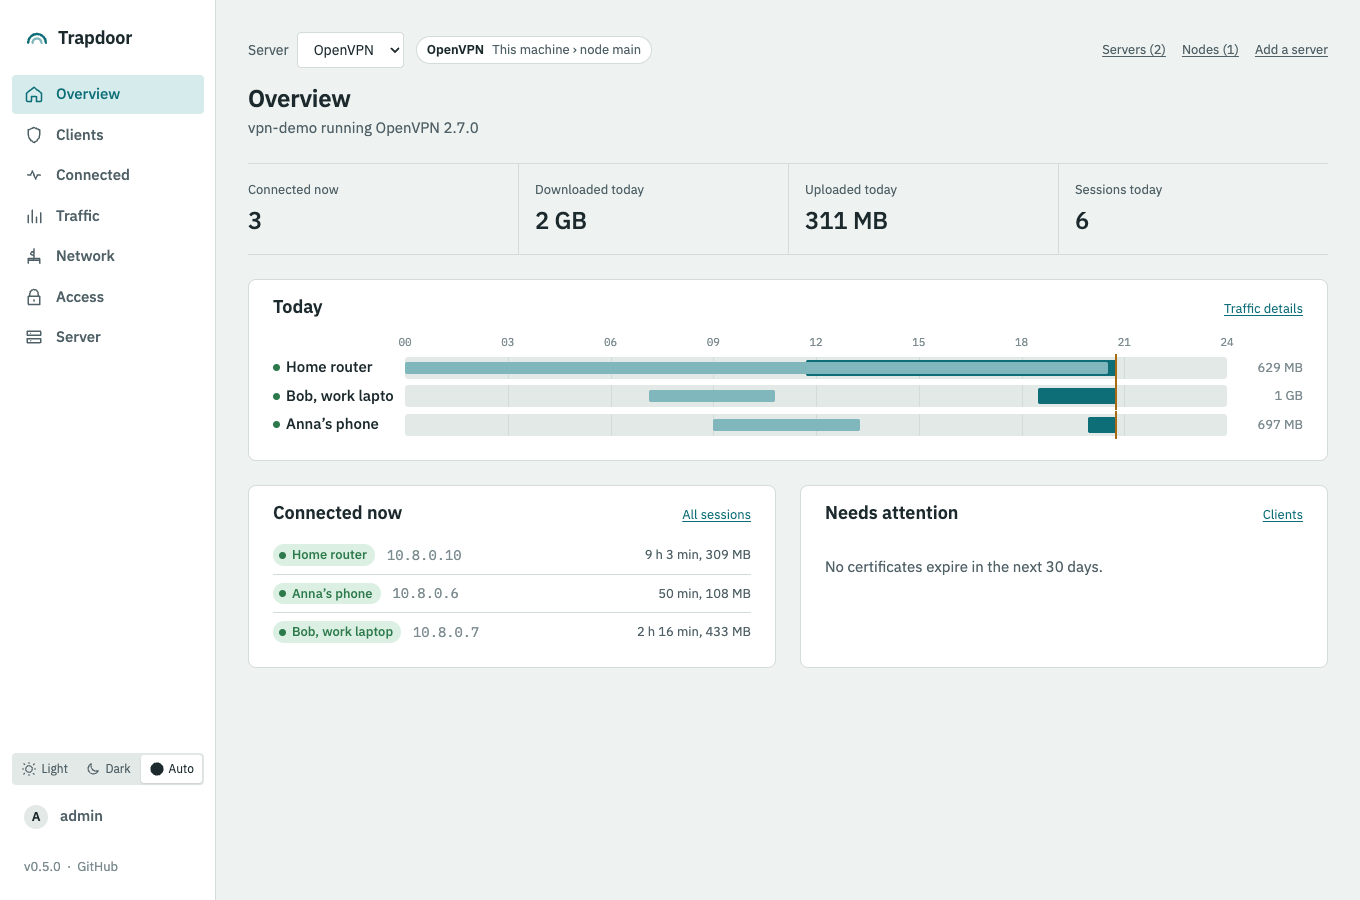
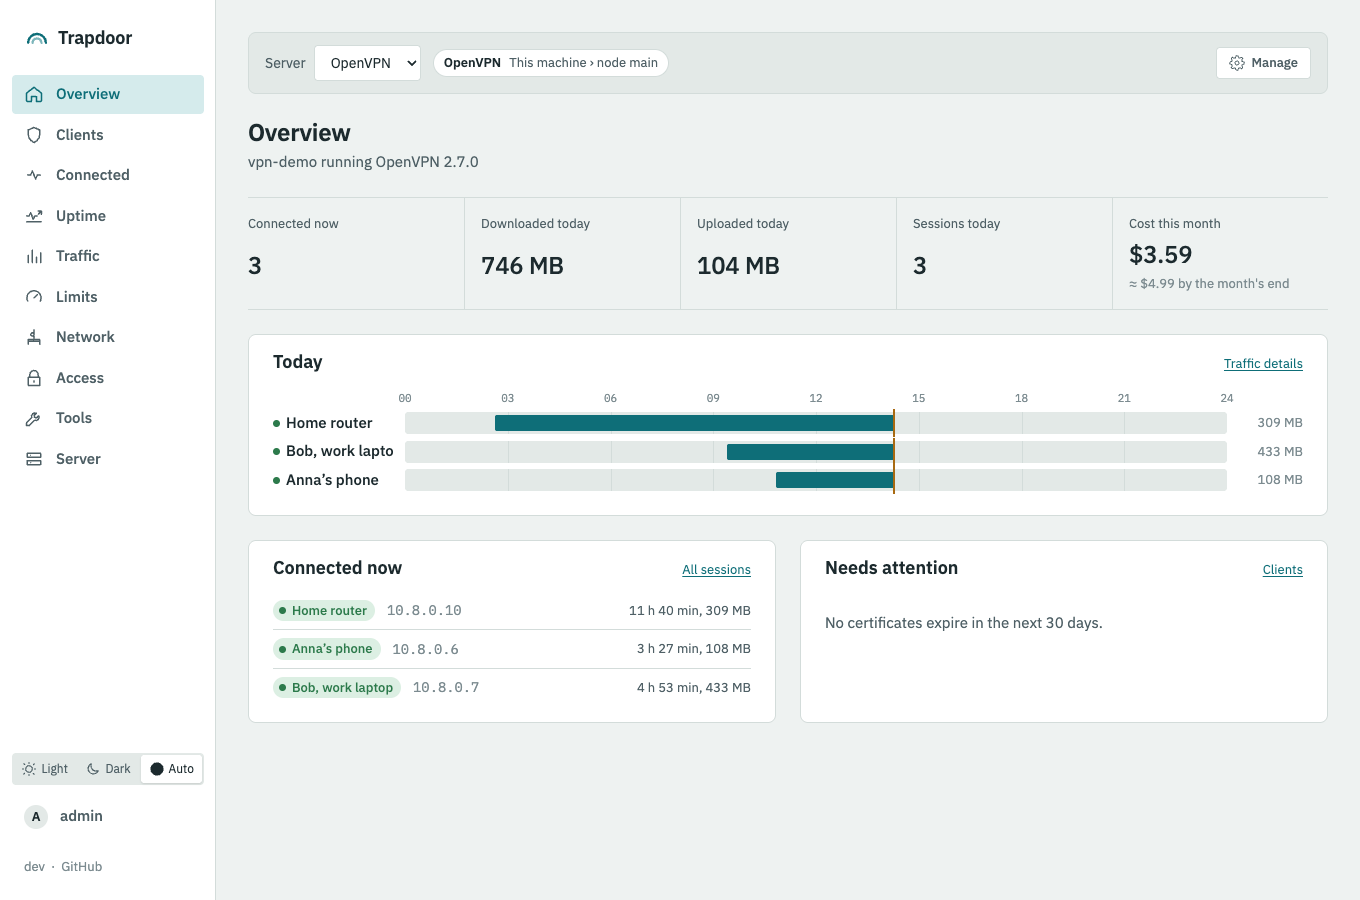
Release notes for v0.9.0; README and screenshots up to date
Screenshots retaken with the server bar panel, plus the Admins page and
the Audit log in the README. Also fixes the Overview on phones: with a
price set its five tiles stayed in one row (.summary.five beat the phone
rule) and ran off the screen.

diff --git a/web/src/pages/Dashboard.svelte b/web/src/pages/Dashboard.svelte
@@ -232,7 +232,8 @@
     .cols { grid-template-columns: 1fr; }
   }
   @media (max-width: 760px) {
-    .summary { grid-template-columns: 1fr 1fr; }
+    .summary, .summary.five { grid-template-columns: 1fr 1fr; }
+    .summary > .costtile { grid-column: 1 / -1; padding-left: 0; border-left: 0; border-top: 1px solid var(--line); }
     .summary > div:nth-child(3) { padding-left: 0; border-left: 0; }
     .summary > div:nth-child(n + 3) { border-top: 1px solid var(--line); }
   }

diff --git a/web/src/pages/WireGuardOverview.svelte b/web/src/pages/WireGuardOverview.svelte
@@ -188,7 +188,8 @@
     .cols { grid-template-columns: 1fr; }
   }
   @media (max-width: 760px) {
-    .summary { grid-template-columns: 1fr 1fr; }
+    .summary, .summary.five { grid-template-columns: 1fr 1fr; }
+    .summary > .costtile { grid-column: 1 / -1; padding-left: 0; border-left: 0; border-top: 1px solid var(--line); }
     .summary > div:nth-child(3) { padding-left: 0; border-left: 0; }
     .summary > div:nth-child(n + 3) { border-top: 1px solid var(--line); }
   }

diff --git a/docs/releases/v0.9.0.md b/docs/releases/v0.9.0.md
@@ -1,0 +1,47 @@
+**Several admins, read-only accounts and an audit log**, all in a new Admin area.
+
+## Accounts and roles
+
+- Every person signing in with Authelia (or another OIDC provider) gets **their own account**
+  at the first sign-in, named after them, instead of all sharing one. Its role follows their
+  groups: `TD_OIDC_GROUPS` sign in as **admins**, the new `TD_OIDC_VIEWER_GROUPS` as
+  **read-only**.
+- Local accounts with a password still work (and stay the way in when the sign-on is down).
+- A **read-only** account sees every page except Tools, with a banner at the top; the buttons
+  that change something are hidden, settings forms are locked, and profiles, WireGuard configs
+  and backup files cannot be downloaded. The API enforces the same: only reading, apart from
+  logging out and changing its own password.
+- There is always at least one admin who is turned on.
+
+## Admin area
+
+- **Manage** (⚙) in the server bar opens it: My account, **Admins**, Servers, Nodes, Backups,
+  Notifications and the **Audit log**, as tabs.
+- **Admins**: every account with its role, how it signs in, its last sign-in (when, from
+  where, how) and its open sessions. Add a local account, change a role, turn an account off
+  (its sessions end), set a new password (also a local one for a single sign-on account), log
+  it out everywhere, delete it.
+- **My account** is folded into sections like the Server page.
+
+## Audit log
+
+- Every change, sign-in and failed sign-in, with who, how they signed in and from where, now
+  stored in the database (it was only in the log before), kept for two years.
+- Filters by period, person, kind of action and text, pages of 15 / 25 / 50 / 100, and
+  *Export CSV*.
+
+## Also
+
+- The server bar (server, where it runs, Manage) is a panel of its own.
+- Overview on a phone: with a price per GB set, the five tiles ran off the screen; they now
+  wrap into two columns.
+
+## Upgrading from 0.8.x
+
+`docker compose pull && docker compose up -d web`: only the web UI changed; the database is
+upgraded on start.
+
+If you sign in with OIDC: your next sign-in creates your own account (e.g. `anna`, admin)
+next to the existing `admin`, which keeps its password. To keep the old behaviour, everyone as
+one local account, set `TD_OIDC_USER=admin`. For read-only users, add their group to
+`TD_OIDC_VIEWER_GROUPS` (and allow it in your provider's policy for trapdoor).

diff --git a/README.md b/README.md
@@ -42,6 +42,10 @@ same two-factor logins.
 | --- |
 | <img src="docs/screenshots/limits.png" width="800"> |
 
+| Admin area: accounts, admin or read-only | Audit log: who did what, from where |
+| --- | --- |
+| <img src="docs/screenshots/admins.png" width="400"> | <img src="docs/screenshots/audit.png" width="400"> |
+
 | Clients | Traffic | Access rules |
 | --- | --- | --- |
 | <img src="docs/screenshots/clients.png" width="300"> | <img src="docs/screenshots/traffic-dark.png" width="300"> | <img src="docs/screenshots/access.png" width="300"> |
@@ -74,8 +78,14 @@ same two-factor logins.
   defaults per server, reset, messages at 80% and 100%; per server traffic alarms (per hour,
   day, month) and the price of traffic, with this month's cost on the Overview
   ([how](docs/guide.md#limits))
-- **Sign in with Authelia** (or another OIDC provider) by group, next to the admin password
-  ([how](docs/oidc.md))
+- **Sign in with Authelia** (or another OIDC provider) by group, next to the admin password:
+  every person gets their own account at the first sign-in ([how](docs/oidc.md))
+- **Admin area** (*Manage* in the server bar): servers, nodes, backups, notifications and the
+  accounts: **admins** change things, **read-only** accounts see everything but change
+  nothing and download no keys; turn an account off, set a password, log it out everywhere
+  ([how](docs/guide.md#admin-area))
+- **Audit log**: every change, sign-in and failed sign-in with who, how and from where; filters
+  and CSV export, kept for two years
 - **Uptime** page for any period back to the first record: status bars per client, a month
   calendar, every up and down with filters and CSV export ([how](docs/guide.md#uptime))
 - **Online / offline messages** for the clients you pick: when they connect or disconnect, by

diff --git a/ROADMAP.md b/ROADMAP.md
@@ -89,7 +89,7 @@ AmneziaWG side by side: several VPN servers of any type on one host, managed in 
 
 ## v4 — extras
 
-- [x] OIDC login (e.g. Authelia): signs in as the local admin by group, password login stays
+- [x] OIDC login (e.g. Authelia): an account per person, role by group, password login stays
 - [x] Backup / restore (PKI + config + DB, every host): one file from the UI, optionally
       encrypted; `trapdoor restore agent|web`
   - [x] Per server: backup on the server's page, restore (or move to another host) with
@@ -119,6 +119,8 @@ AmneziaWG side by side: several VPN servers of any type on one host, managed in 
 - [x] Limits: priorities per client (with the server's link speed), traffic alarms per server
       (hour / day / month), price of traffic with the month's cost on the Overview
 - [x] Audit log: in the database (two years), a page with filters, pages and CSV; sign-ins and failed sign-ins too
+- [x] Several admins and read-only accounts; Admin area (accounts, servers, nodes, backups,
+      notifications, audit log)
 - [ ] easyrsa `vars` in the native PKI: certificate name fields (`EASYRSA_DN` org mode:
       country, province, city, org, email, OU), key type and size, digest, CA / certificate /
       CRL lifetimes, read from `<pki>/vars` (or `TD_EASYRSA_VARS`), so new certificates match
